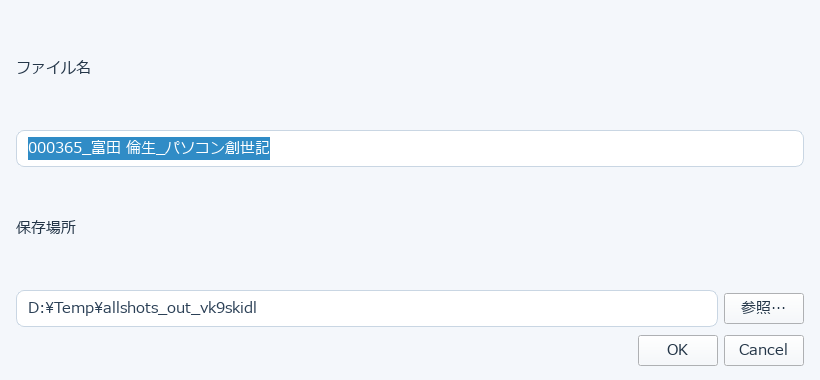
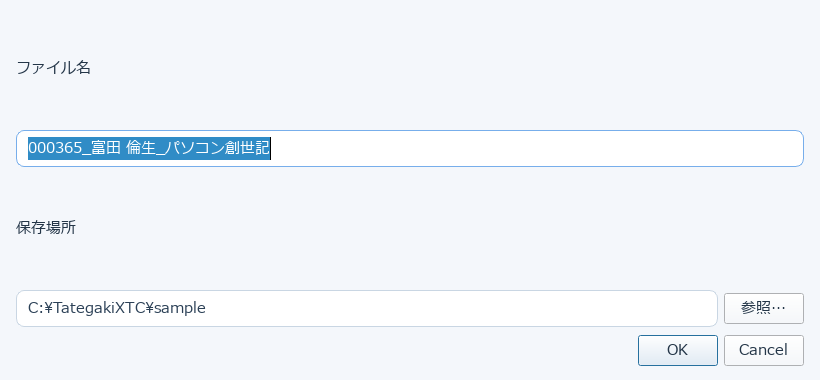
Fix three points raised against the manual
- Say that the 句読点 position correction only reaches punctuation that
  kinsoku has pushed past the end of a line. Mid-line punctuation is drawn
  at the standard position however the setting is set, which the table did
  not say.
- Re-shoot the log tab. The published picture showed the developer's user
  name and working tree in the log path. The path comes from where the
  application sits, so the shot was retaken with the app in an ordinary
  install directory rather than retouching the image. The output settings
  dialog leaked a scratch folder name the same way and was retaken too.
- Document the settings migration tool. Portable builds start from
  defaults, and nothing explained that START_SETTINGS_MIGRATE.bat carries
  presets, fonts, novel-fetch history and caches over from the old folder.

Changed region(s): [[0.0305, 0.7816, 0.3354, 0.8395]]

diff --git a/docs/01-getting-started.md b/docs/01-getting-started.md
@@ -43,6 +43,32 @@
 
 ![ヘルプポップアップの例（出力形式）](../images/help-popup-output-format.png)
 
+## 新しい版へ乗り換えるとき（設定引き継ぎツール）
+
+ポータブル版はインストールせずフォルダごと置いて使うため、
+新しい版を展開すると設定は初期状態から始まります。
+前の版で作った設定を持ち込むための小さなツールが同梱されています。
+
+新しい版のフォルダにある **`START_SETTINGS_MIGRATE.bat`** をダブルクリックしてください
+（本体とは別の軽量な引き継ぎツール `TategakiXTC_SettingsMigrate.exe` が起動します）。
+あとは**前の版のフォルダを選ぶだけ**です。
+
+引き継がれるもの:
+
+- プリセット、表紙プリセット
+- フォルダ一括変換の設定
+- 追加したフォント
+- 小説URL（URL→EPUB）の取得履歴、narou.rs の管理データ、差分台帳、EPUBキャッシュ
+- ログ
+
+引き継がれないもの:
+
+- ウィンドウの大きさや位置、最近使ったファイルなど、その環境固有の項目
+
+> 引き継ぎは**新しい版のフォルダから**実行します。前の版のフォルダで動かすものではありません。
+> コピーの前に空き容量を確認し、小説取得データの中に書かれた古いフォルダの場所も
+> 新しい版に合わせて書き換えます。
+
 次章では、中央の組版設定を一つずつ説明します。
 
 → [2. 基本設定（組版・出力形式）](02-basic-settings.md)

diff --git a/docs/04-position.md b/docs/04-position.md
@@ -15,7 +15,7 @@
 
 | 項目 | 対象 |
 |---|---|
-| 句読点 | 、 。 |
+| 句読点 | 、 。（**ぶら下がりになったものだけ**） |
 | 漢数字 ー | 漢数字と組み合わせた長音符 |
 | 全角英字 | Ａ Ｂ Ｃ … |
 | 半角英字 | A B C … |
@@ -27,6 +27,11 @@
 
 **爪括弧左右**だけは左右方向の調整で、設定は1つです。
 **開きを右へ寄せると、閉じは同じだけ左へ寄ります。**
+
+> **句読点の対象範囲**
+> 「句読点」の位置補正が効くのは、禁則処理によって**行末にぶら下がった句読点だけ**です。
+> 行の途中にある句読点は、補正を指定しても標準の位置のまま描かれます。
+> ぶら下がりが起きるかどうかは「組版」ブロックの禁則処理の設定によります。
 
 ## 連続記号詰め（%）
 
